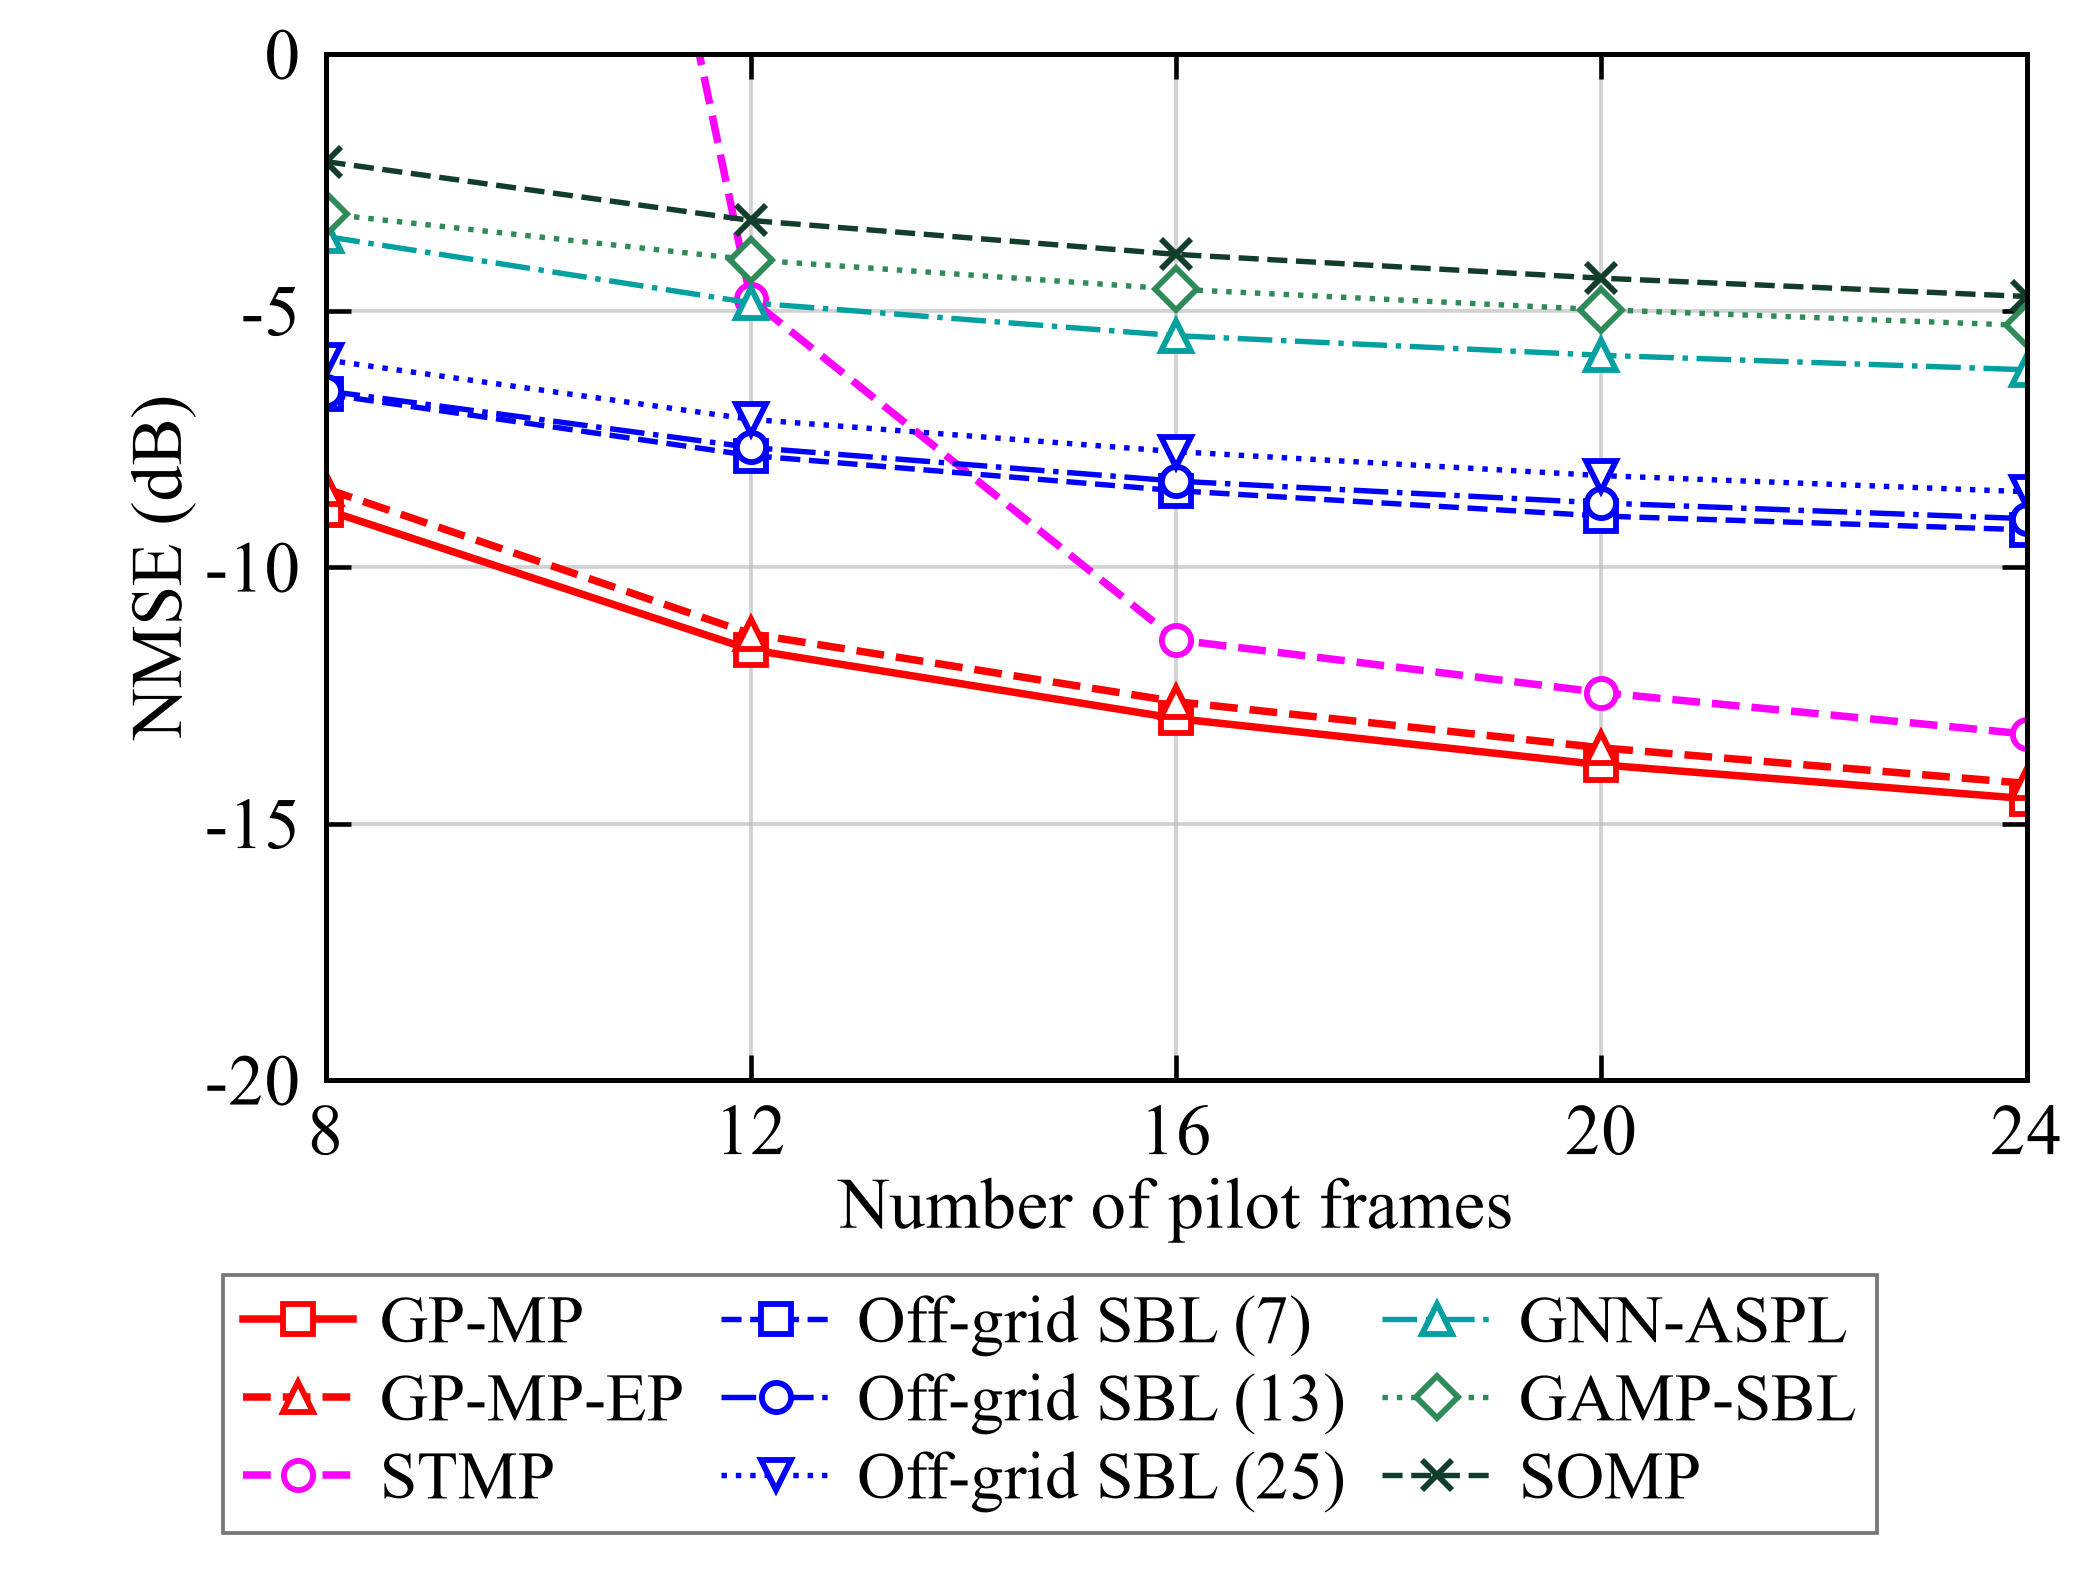
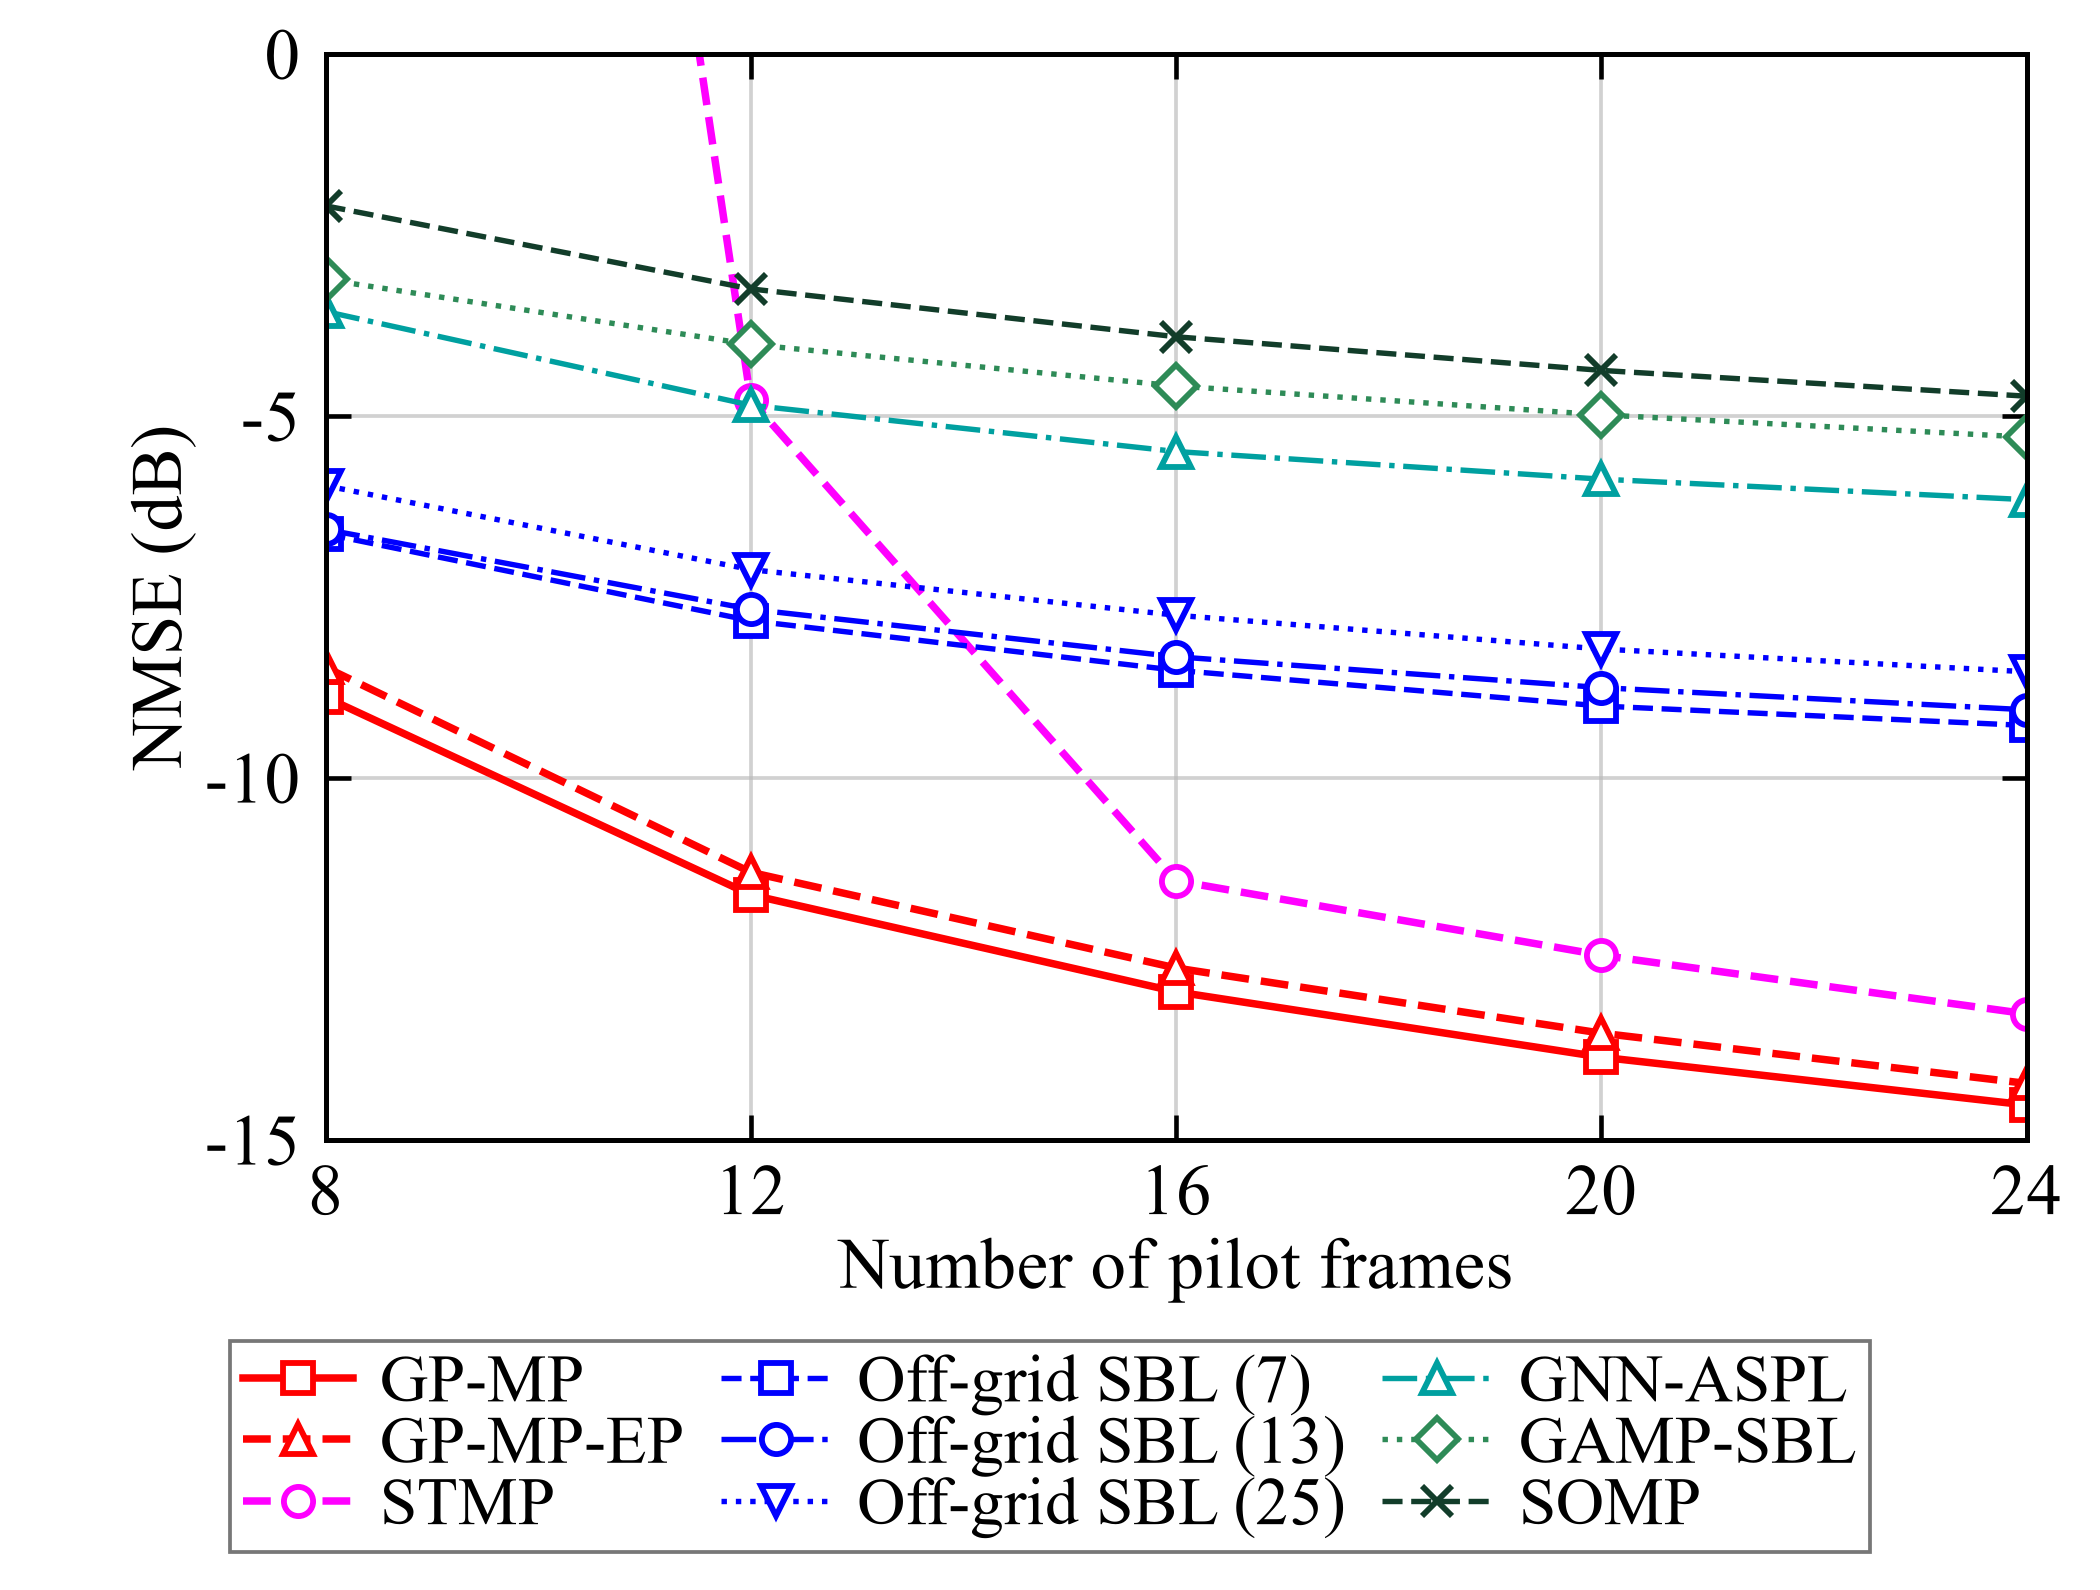
Match pilot plot area and NMSE ticks to user and activity figures

diff --git a/result/pilot_frames/latest_20261109/render.py b/result/pilot_frames/latest_20261109/render.py
@@ -29,18 +29,18 @@ def main():
     fig, curves = engine.draw('user_count', raw, cfg)
     ax = fig.axes[0]
     ax.set_xlabel('Number of pilot frames', labelpad=1)
-    ax.set_ylim(-20,0)
-    ax.set_yticks([-20,-15,-10,-5,0])
+    ax.set_ylim(-15,0)
+    ax.set_yticks([-15,-10,-5,0])
     for line in ax.lines:
         line.set_clip_on(True)
         line.set_clip_path(ax.patch)
     for legend in list(fig.legends):
         legend.remove()
     # Match the main SNR figure's three-column legend and handle spacing.
-    fig.subplots_adjust(bottom=.85/2.65)
+    fig.subplots_adjust(bottom=.75/2.65)
     fig.legend(*ax.get_legend_handles_labels(),loc='lower center',
-               bbox_to_anchor=(.5,.015),ncol=3,
-               **dict(engine.LEGEND, **all_cfg['snr_comparison']['legend_style']))
+               bbox_to_anchor=(.5,.003),ncol=3,
+               **dict(engine.LEGEND, **all_cfg['snr_comparison']['legend_style'], labelspacing=0, borderpad=.2))
     engine.validate(fig, curves, cfg)
     OUT.mkdir(exist_ok=True)
     for ext in ('png','pdf'):
@@ -48,8 +48,8 @@ def main():
     receipt = dict(summary_sha256=sha(HERE/'SUMMARY.json'), renderer_sha256=sha(Path(__file__)),
                    reference='src/plotting/manuscript/experiments.py:draw(user_count)',
                    size_inches=list(fig.get_size_inches()), curves=curves, data_unchanged=True,
-                   axes_limits=[-20,0], legend_columns=3,
-                   points_outside_display=[r for r in raw['rows'] if not -20<=r['nmse_db']<=0])
+                   axes_limits=[-15,0], legend_columns=3,
+                   points_outside_display=[r for r in raw['rows'] if not -15<=r['nmse_db']<=0])
     (OUT/'PLOT_CHECKS.json').write_text(json.dumps(receipt,indent=2),encoding='utf-8')
     print(OUT/'pilot_frames_nmse.png')
 

diff --git a/result/pilot_frames/latest_20261109/README.md b/result/pilot_frames/latest_20261109/README.md
@@ -4,7 +4,7 @@
 
 导频帧数为 8、12、16、20、24，每点 500 个配对场景，共九条曲线、22,500 份结果（包含验证复用）。GP-MP 和 GP-MP-EP 使用白噪声训练模型；8 帧阻尼 0.3，其余 0.4。仅报告能量汇总 NMSE。原始逐场景预测保留本地。
 
-采用作者确认的三列图例格式，字体、画布和坐标轴沿用用户数实验图。纵轴固定 −20 至 0 dB，STMP 的 8 帧点超出显示范围；其完整数值保留在 SUMMARY.json，没有删除样本。
+采用作者确认的三列图例格式，字体、画布和坐标轴沿用用户数实验图。纵轴固定 −15 至 0 dB，STMP 的 8 帧点超出显示范围；其完整数值保留在 SUMMARY.json，没有删除样本。
 
 此目录为最新独立实验图，尚未替换论文中的历史图与文字。旧结果保留供追溯。COMPLETION.json 是本地完整核验收据，其中逐场景证据未随本次小型图表更新上传。
 
